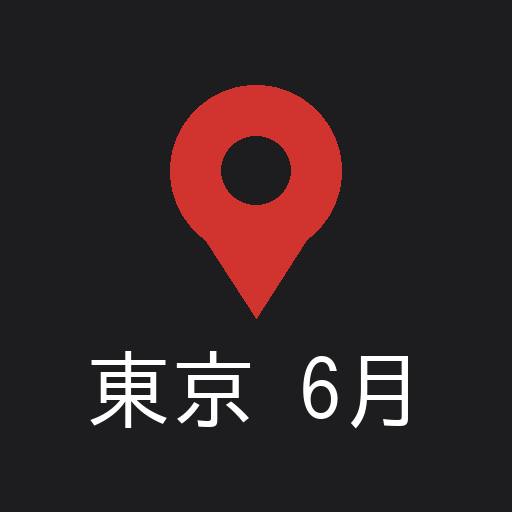
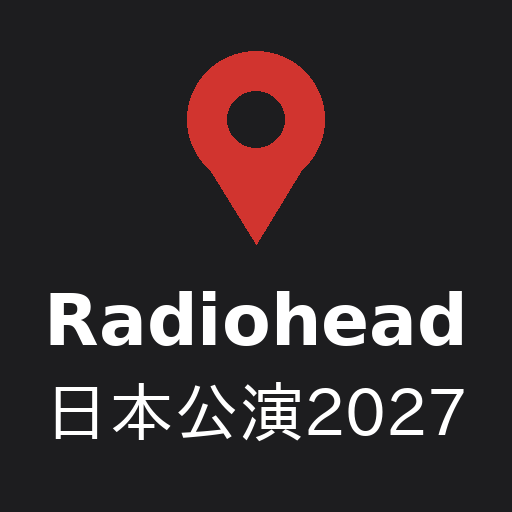
アイコンの文字を「Radiohead／日本公演2027」に変更
Claude-Session: https://claude.ai/code/session_01CjuCr1VctogBegfmuWkTKr

Changed region(s): [[0.0938, 0.0938, 0.9062, 0.875], [0.8438, 0.8125, 0.875, 0.8438]]

diff --git a/index.html b/index.html
@@ -9,7 +9,7 @@
 <meta name="apple-mobile-web-app-title" content="東京6月">
 <meta name="apple-mobile-web-app-status-bar-style" content="default">
 <meta name="theme-color" content="#ffffff">
-<link rel="apple-touch-icon" href="icon-180.png">
+<link rel="apple-touch-icon" href="icon-180.png?v=2">
 <link rel="manifest" href="manifest.webmanifest">
 <link rel="stylesheet" href="vendor/leaflet/leaflet.css">
 <link rel="stylesheet" href="style.css">

diff --git a/edit.html b/edit.html
@@ -6,7 +6,7 @@
 <title>確定と日程の編集</title>
 <meta name="apple-mobile-web-app-capable" content="yes">
 <meta name="theme-color" content="#ffffff">
-<link rel="apple-touch-icon" href="icon-180.png">
+<link rel="apple-touch-icon" href="icon-180.png?v=2">
 <link rel="stylesheet" href="style.css">
 <style>
   body { overflow-y: auto; }
